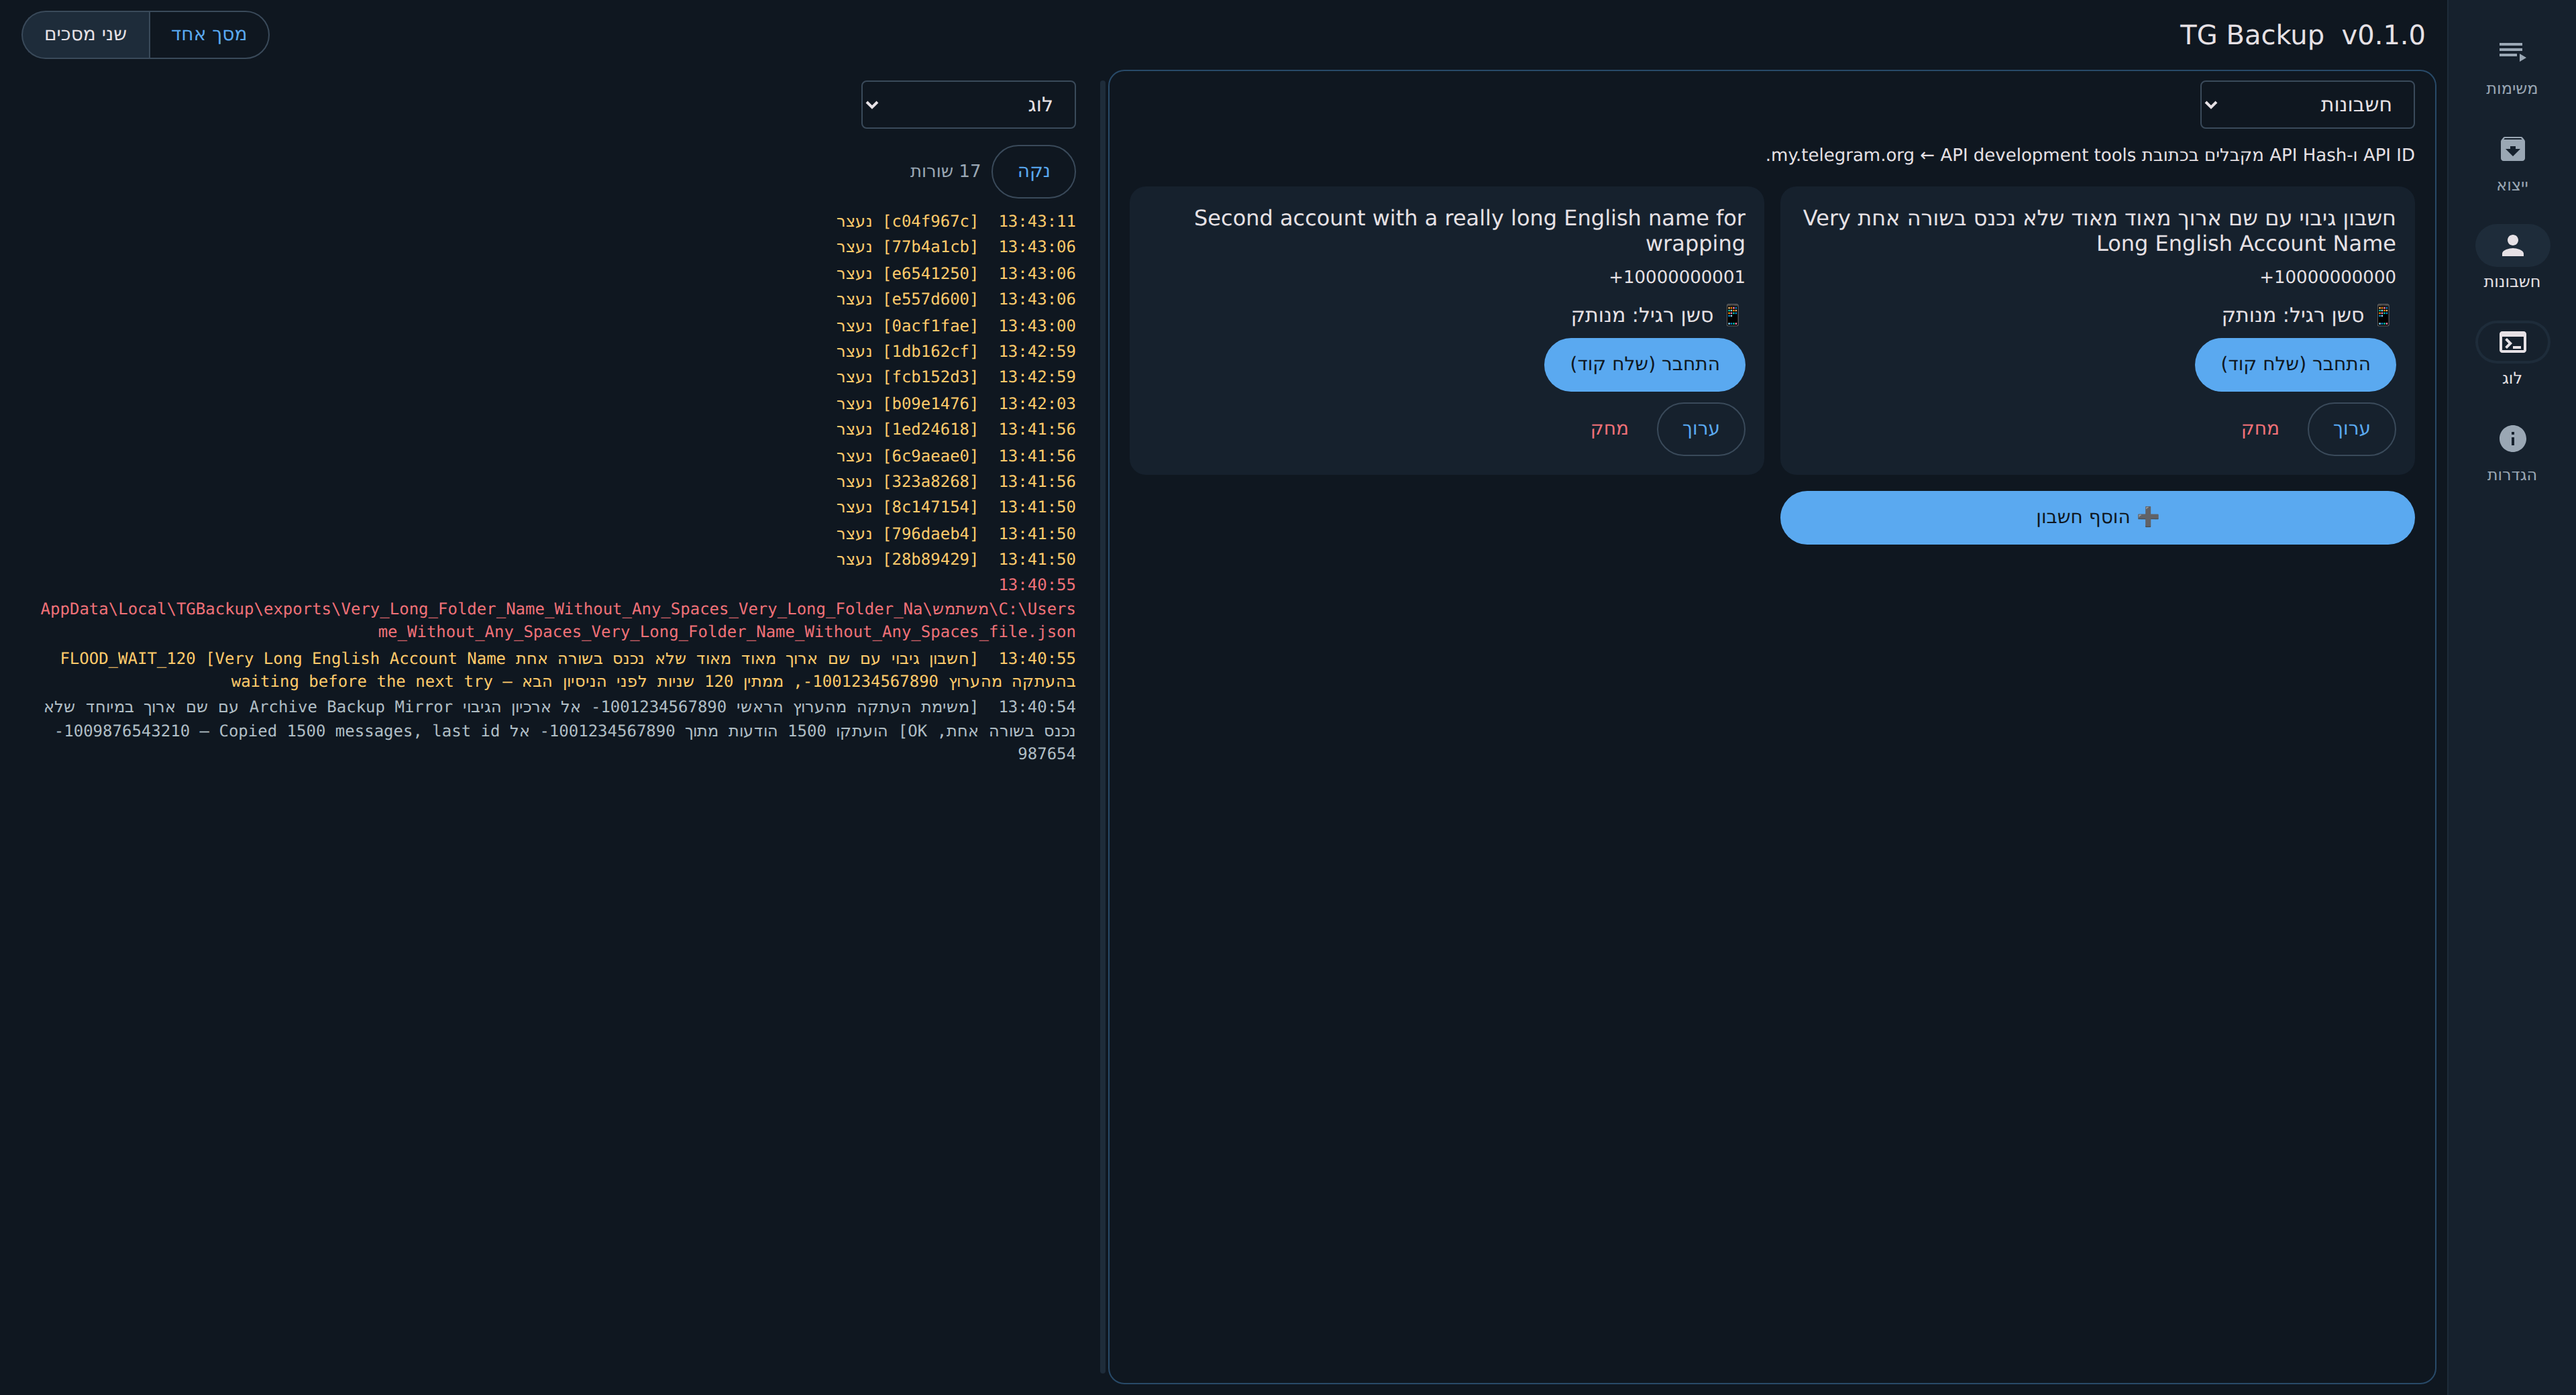
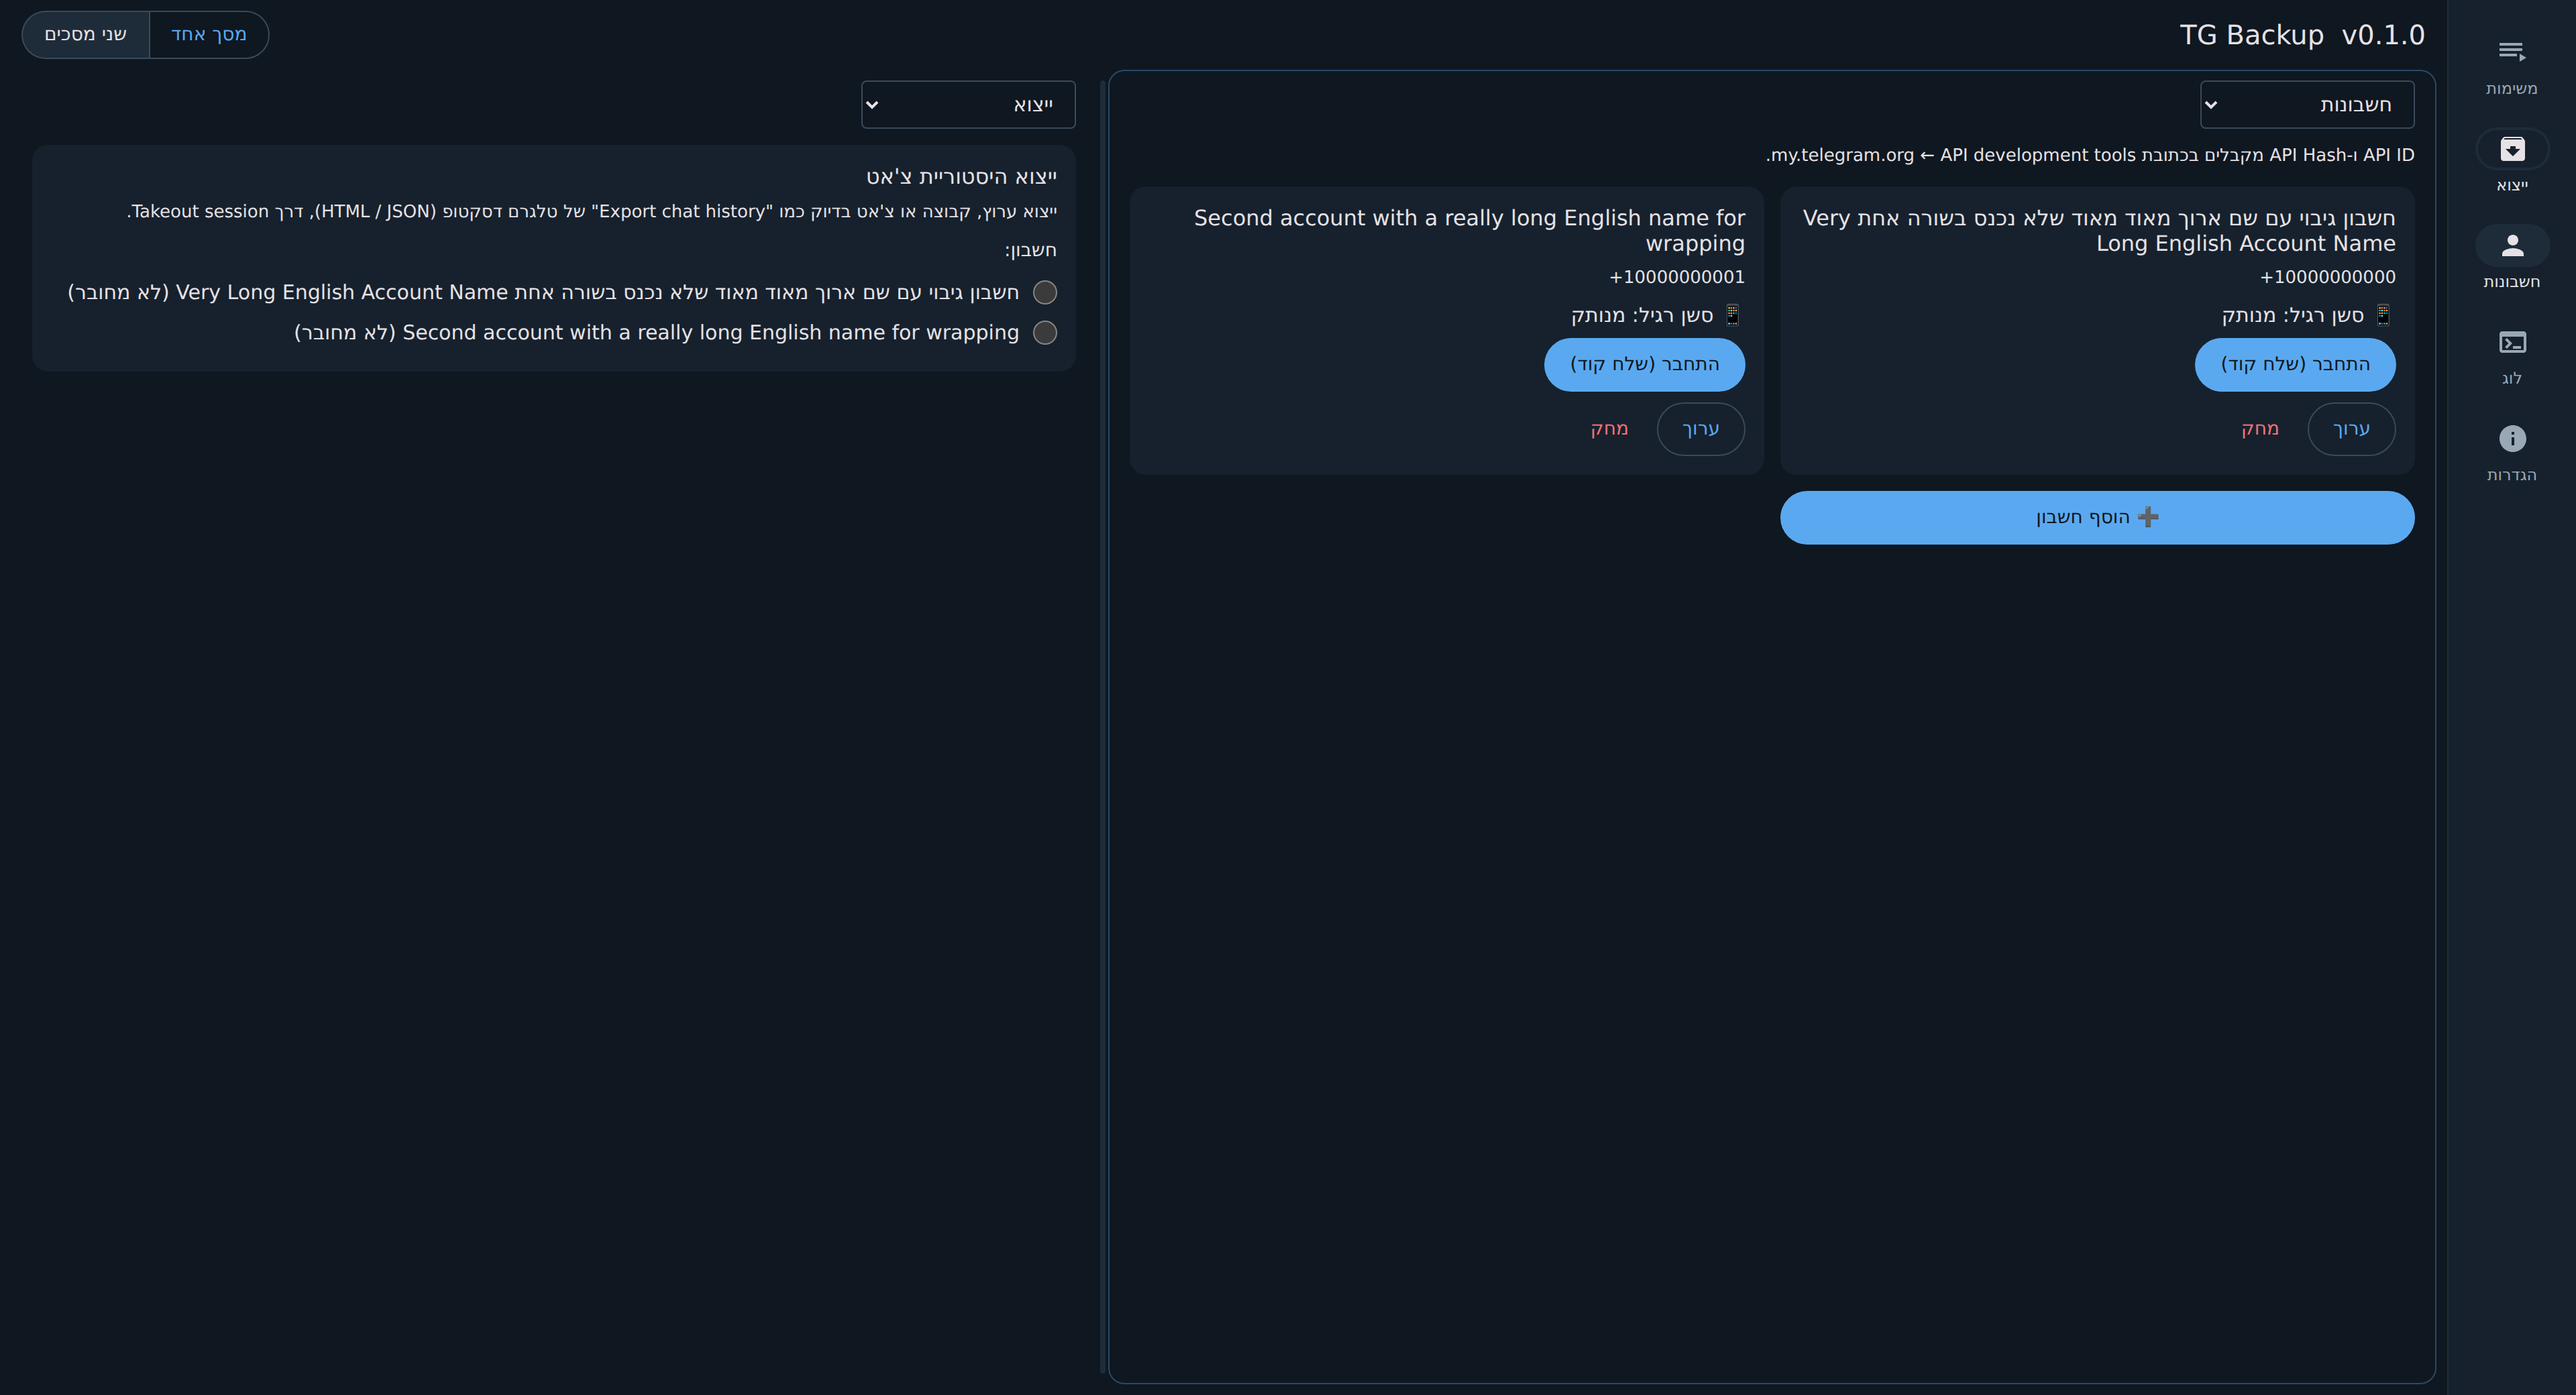
docs: split view screenshots again (the jobs pane a third with 2 jobs) and split-jobs-4-log.png (half, two columns)

Changed region(s): [[0.0312, 0.125, 0.4375, 0.5312], [0.9688, 0.0938, 1.0, 0.125], [0.0625, 0.125, 0.0938, 0.1562]]

diff --git a/docs/PORTING.md b/docs/PORTING.md
@@ -120,5 +120,5 @@ in `web-tests/` (jobs, accounts, export, shell, desktop-layout, split-view, layo
 ### Screenshots (`docs/screens/`, deviceScaleFactor 2, long-names fixture)
 - Phone 390×844: `phone-jobs.png`, `phone-accounts.png`, `phone-export.png`, `phone-log.png`, `phone-settings.png`.
 - Window 1100×750: `window-jobs.png`, `window-accounts.png`, `window-export.png`, `window-log.png`, `window-settings.png`.
-- Split view 1920×1040: `split-jobs-log.png`, `split-accounts-export.png`.
+- Split view 1920×1040: `split-jobs-log.png` (2 jobs: the jobs pane a third), `split-jobs-4-log.png` (4 jobs: half, two columns), `split-accounts-export.png`.
 - One screen with the rail, 960×1040: `rail-960-jobs.png`.
